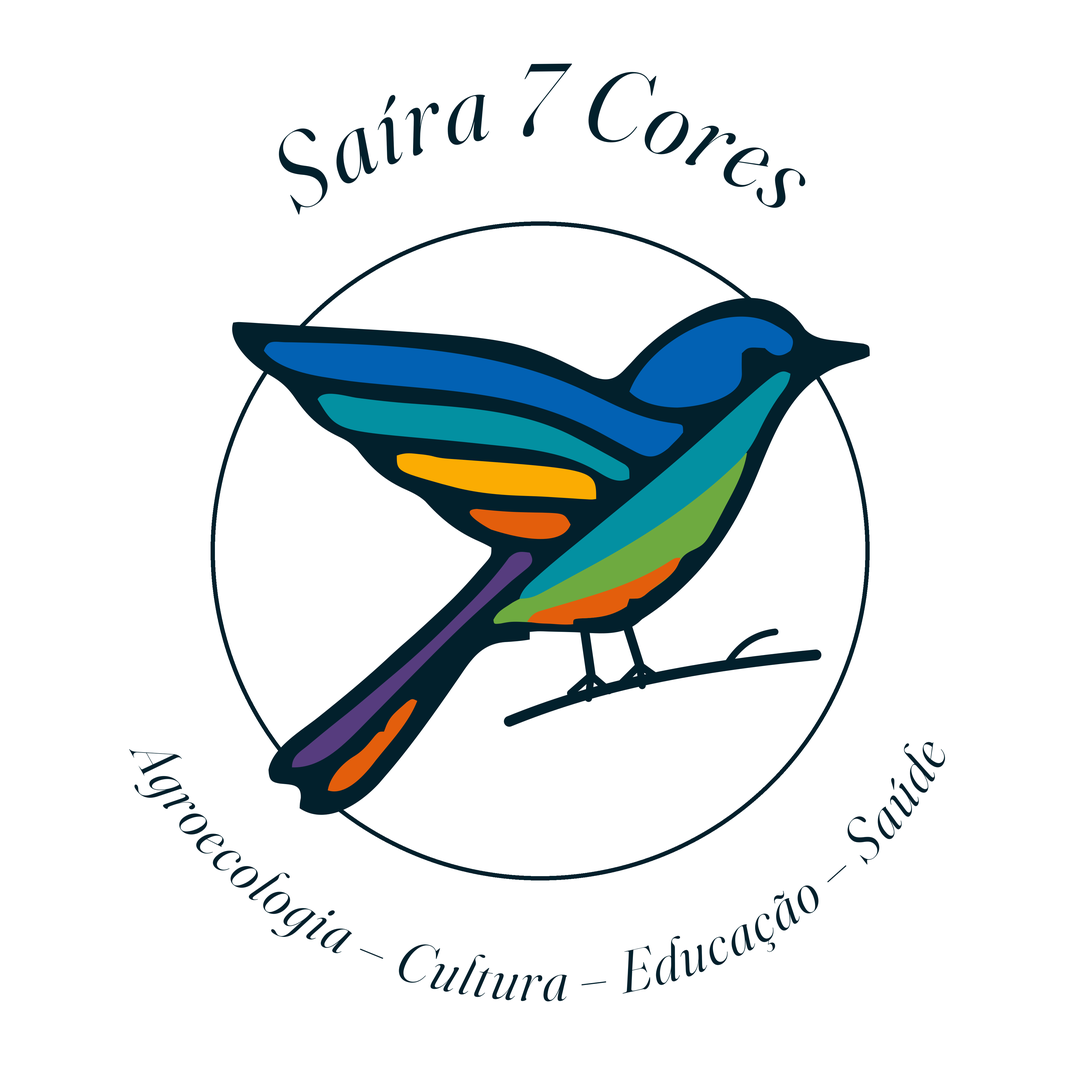
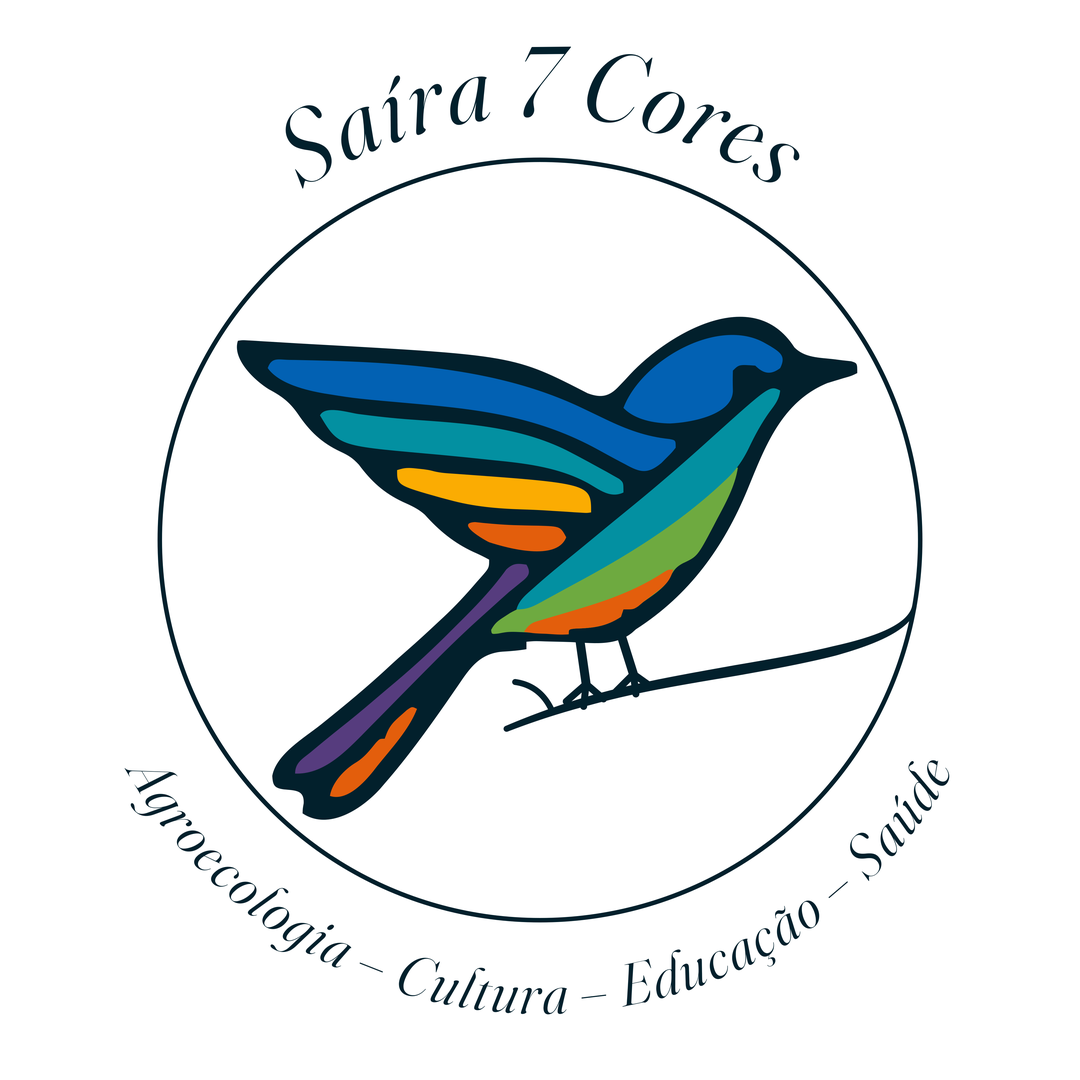
style(marca): círculo do selo envolve o pássaro inteiro e o galho nasce do círculo
Claude-Session: https://claude.ai/code/session_01X4S2BbYQyg8SsYUfKZy1tm

diff --git a/brand-kit/README.md b/brand-kit/README.md
@@ -9,7 +9,8 @@ Estes arquivos **não** fazem parte do site publicado (o site usa `public/brand/
 - **Fontes:** Fraunces (títulos) · DM Sans (textos, chapéus em caixa alta espaçada)
 
 ## `logo/` (versão v4, 26/11/2026: pássaro pousado no galho)
-Selo: pássaro pousado no centro, círculo fino atrás, texto em volta em **Fraunces itálico**.
+Selo: pássaro pousado no centro, dentro de um círculo fino que envolve o pássaro inteiro (sem cruzar asa, bico nem rabo); o galho nasce do círculo, como um ramo dele. Texto em volta em **Fraunces itálico**.
+`emblema-circulo-galho.svg` = círculo + galho + pássaro em vetor (sem o texto).
 Em cima: **"Saíra 7 Cores"** · embaixo: **"Agroecologia – Cultura – Educação – Saúde"**.
 
 | Arquivo | Uso |
